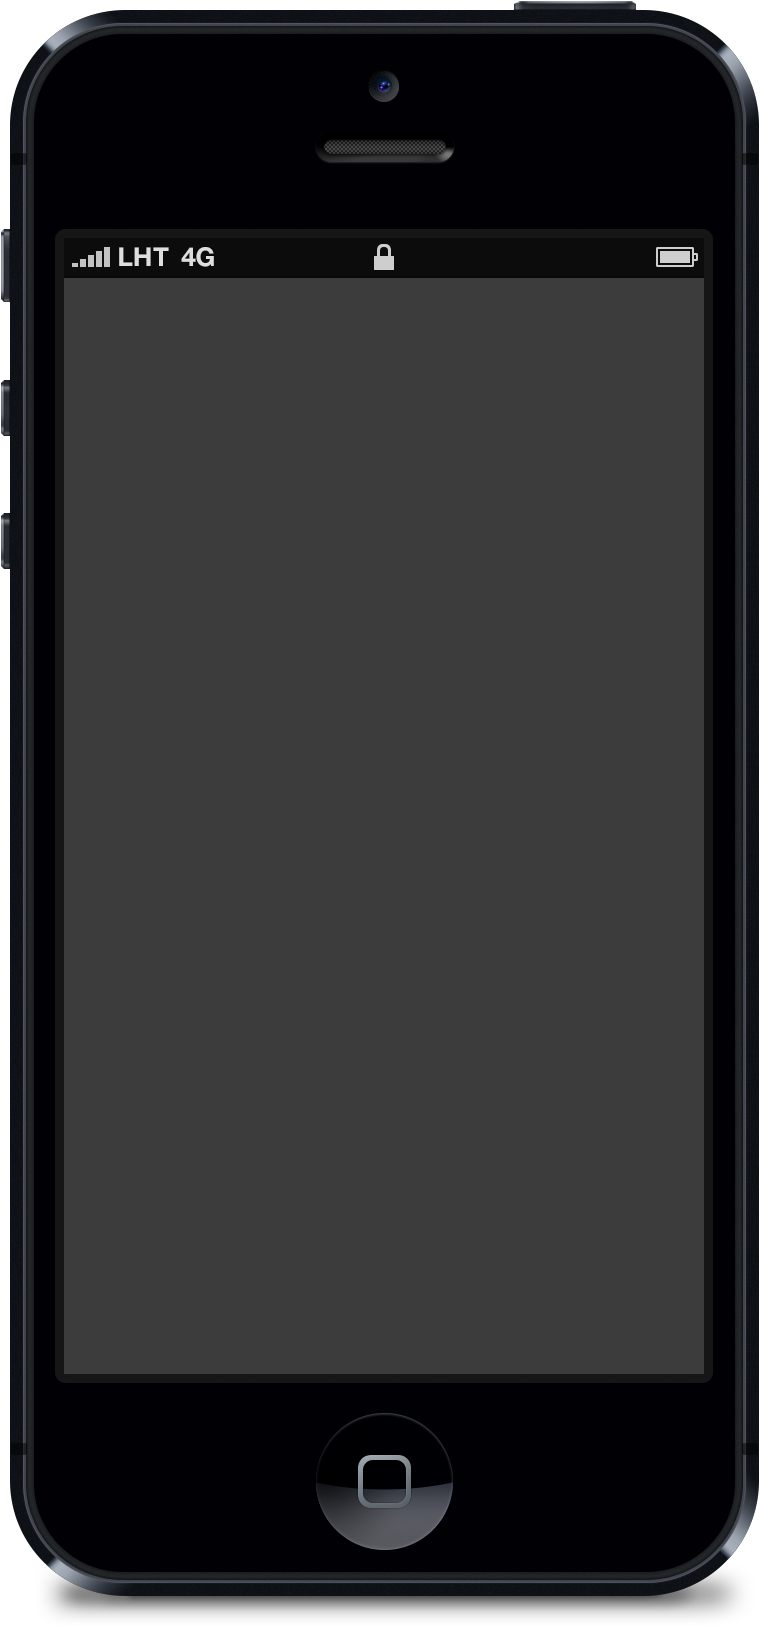
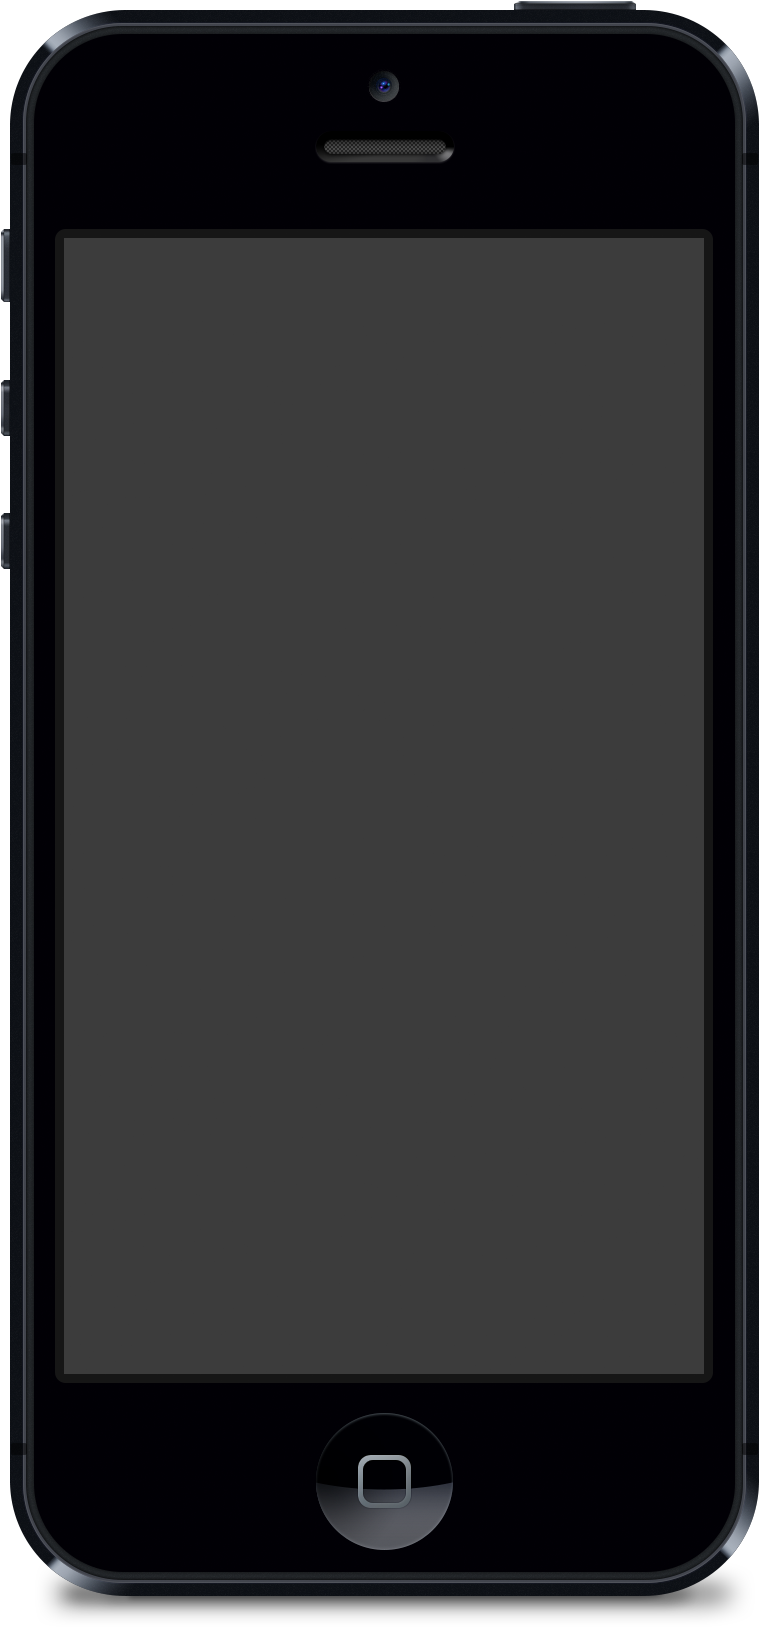
Remove status bar from phone chrome so that screenshots fit unmodified

Changed region(s): [[0.0605, 0.1229, 0.9382, 0.1843]]

diff --git a/stylesheets/mockup.css b/stylesheets/mockup.css
@@ -8,9 +8,9 @@ html, body {
 #phone {
   background: url('../images/chrome/phone.png') no-repeat center;
   background-size: 758px 1626px;
-  height: 1096px;
+  height: 1136px;
   margin: -814px auto 0;
-  padding: 278px 56px 254px 64px;
+  padding: 238px 56px 254px 64px;
   position: relative;
   top: 50%;
   width: 640px;
